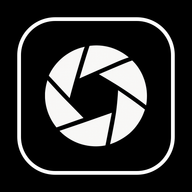
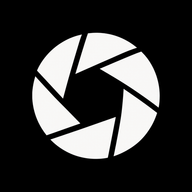
アイコンを枠なしに／固定名の資産を差し替えたら CloudFront から消す
owner:「`/favicon.ico` を開いても過去のままだった。こんな感じのが載ると思ってた」
（黒地に白いアパーチャだけの絵）。

**2つ重なっていた**:

1. 絵の読み違い——「外枠のしろい」を前のアイコンの白い枠と読んで引き継いだが、
   期待は枠なしだった。全部（favicon 16/32/48・192・512・maskable）を枠なしに。
   `icon512({ frame: true })` は残してある（戻すときは1語）
2. **配信の穴**——固定名の資産（`favicon.ico`・`icon-*.png`・`images/*`）は
   `max-age=3600` で配るのに、差し替えても**無効化の対象に入っていなかった**
   （対象は HTML/txt と `NO_CACHE_KEYS` だけ）。エッジに最大1時間古い絵が残り、
   開いても前のまま。`/_next/static/**` 以外は差し替えたら消す（`isInvalidatable`）。
   `changedKeys` も同じ判定を通す——数えないと無効化に届かない

変異1種（判定を元に戻す）で2件落ちる。

**なお、ブラウザは favicon を独自に長く控える**ので、反映後もタブの絵が古い
ことがある。`/favicon.ico` を直接開いて強制再読込するか、別のブラウザで確かめる。

Claude-Session: https://claude.ai/code/session_011D6H25ZJ4f1eXyufjjaxQJ

Changed region(s): [[0.1562, 0.1562, 0.8438, 0.8438], [0.0625, 0.0625, 0.9375, 0.9375]]

diff --git a/scripts/deploy-static-site.js b/scripts/deploy-static-site.js
@@ -65,7 +65,7 @@ function invalidationPathsFor(keys) {
     const byDir = new Map();
     for (const key of keys) {
         const k = key.split(path.sep).join("/");
-        if (!(isHtmlOrTxt(k) || NO_CACHE_KEYS.has(k))) continue;
+        if (!isInvalidatable(k)) continue;
         const slash = k.indexOf("/");
         if (slash === -1) {
             addExact(k); // 直下のファイルはそのまま
@@ -128,9 +128,9 @@ function changedKeys(localFiles, remoteObjects) {
     const changed = [];
     for (const file of localFiles) {
         const key = file.split(path.sep).join("/");
-        // キャッシュさせていないものだけが無効化の対象
-        // （/_next/static は内容ハッシュ付きなので名前が変われば別物になる）
-        if (!(isHtmlOrTxt(key) || NO_CACHE_KEYS.has(key))) continue;
+        // 無効化の対象だけ（`isInvalidatable`）。/_next/static は内容ハッシュ付きなので
+        // 名前が変われば別物になり、無効化は要らない
+        if (!isInvalidatable(key)) continue;
         const md5 = crypto.createHash("md5").update(fs.readFileSync(path.join(outDir, file))).digest("hex");
         if (remote.get(key) !== md5) changed.push(file);
     }
@@ -200,6 +200,22 @@ const NO_CACHE_KEYS = new Set([
     // （無効化の対象は .html/.txt とこの一覧だけ）
     "feed.xml",
 ]);
+
+/**
+ * 差し替えたときに CloudFront から消す必要があるか。
+ *
+ * - HTML/txt と `NO_CACHE_KEYS` は `no-store` で配るが、エッジには最大 minTTL の間残る
+ * - **固定名の資産**（`favicon.ico`・`icon-*.png`・`images/*`）は `max-age=3600` で
+ *   配るので、差し替えても**最大1時間エッジに古いものが残る**。以前はここが
+ *   無効化の対象に入っておらず、アイコンを差し替えた直後に `/favicon.ico` を
+ *   開いても前の絵が出た（owner が実際に踏んだ）。名前が変わらないものは
+ *   消さないと届かない
+ * - `/_next/static/**` は内容ハッシュ付き＝名前が変われば別物なので要らない
+ */
+function isInvalidatable(key) {
+    if (key.startsWith("_next/")) return false;
+    return true;
+}
 
 async function uploadFile(filePath) {
     const fullPath = path.join(outDir, filePath);
@@ -783,7 +799,7 @@ async function main() {
 module.exports = {
     verifyOgImage,
     assertNoForbiddenContent, assertRobotsMatchesTarget, invalidationTargets,
-    FORBIDDEN_IN_OUTPUT, forbiddenPattern, shouldScan, classifyStaleObjects, isHtmlOrTxt, ASSET_GRACE_MS, invalidationPathsFor, changedKeys,
+    FORBIDDEN_IN_OUTPUT, forbiddenPattern, shouldScan, classifyStaleObjects, isHtmlOrTxt, ASSET_GRACE_MS, invalidationPathsFor, changedKeys, isInvalidatable,
     bulkDeleteGuard, BULK_DELETE_RATIO, BULK_DELETE_MIN, deleteStaleKeys };
 
 if (require.main === module) main().catch(err => {

diff --git a/scripts/__tests__/deployStale.test.ts b/scripts/__tests__/deployStale.test.ts
@@ -116,6 +116,16 @@ describe("invalidationPathsFor", () => {
         expect(invalidationPathsFor(["feed.xml"]), "更新が届かない").toContain("/feed.xml");
     });
 
+    // **固定名の資産は差し替えても届かなかった。** `favicon.ico` は `max-age=3600` で
+    // 配るのに無効化の対象に無く、アイコンを替えた直後に開いても前の絵が出た
+    // （owner が実際に踏んだ）。名前が変わらないものは消さないと届かない
+    it("固定名の資産（favicon・アイコン・images）は差し替えたら無効化する", () => {
+        const paths = invalidationPathsFor(["favicon.ico", "icon-512.png", "images/me-portrait.jpg"]);
+        expect(paths, "アイコンを替えても前の絵が出続ける").toContain("/favicon.ico");
+        expect(paths).toContain("/icon-512.png");
+        expect(paths).toContain("/images/me-portrait.jpg");
+    });
+
     it("ハッシュ付きアセットは無効化しない（内容が変われば名前も変わる）", () => {
         const paths = invalidationPathsFor(["_next/static/chunks/main-abc123.js", "index.html"]);
         expect(paths.some((p: string) => p.startsWith("/_next"))).toBe(false);
@@ -199,6 +209,17 @@ describe("changedKeys", () => {
 
     it("中身が同じなら変更なし", () => {
         expect(changedKeys(sample, [{ key: FIXTURE, etag: `"${md5}"` }])).toEqual([]);
+    });
+
+    // 固定名の資産（favicon 等）も「変わった」に数える——数えないと無効化に届かない
+    it("固定名の資産も ETag が違えば変更あり", () => {
+        const ICON = "__changed-keys-fixture__.ico";
+        nodeFs.writeFileSync(nodePath.join(outDir, ICON), "icon-bytes");
+        try {
+            expect(changedKeys([ICON], [{ key: ICON, etag: '"deadbeef"' }]), "アイコンの差し替えを見ていない").toEqual([ICON]);
+        } finally {
+            nodeFs.rmSync(nodePath.join(outDir, ICON), { force: true });
+        }
     });
 
     it("ETag が違えば変更あり", () => {
